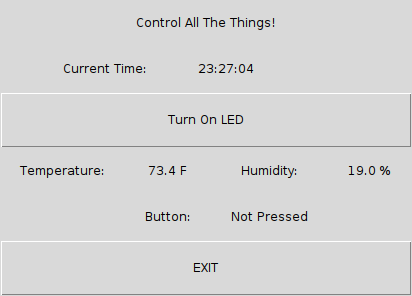
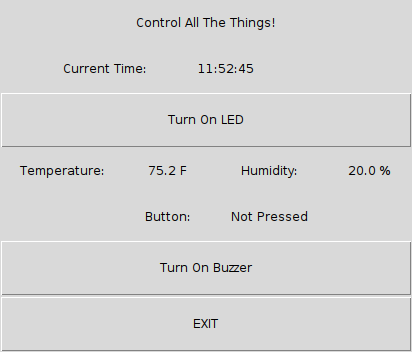
Add Buzzer Control to Full Control GUI
Update the full control GUI to include buzzer control.

diff --git a/gui-master-controller/main.py b/gui-master-controller/main.py
@@ -20,6 +20,12 @@
 #     - Button END1 to RasPi GND
 #     - Button END2 to RasPi GPIO13
 #
+#   Active Buzzer:
+#     - Buzzer POS(+) to RasPi GPIO18
+#     - Buzzer NEG(-) to RasPi GND
+#     - LED POS(+) to RasPi GPIO18
+#     - LED NEG(-) to 1k Ohm Resistor to RasPi GND
+#
 # Prerequisites for Adafruit_DHT library:
 #   sudo apt-get install git-core build-essential python-dev
 #   git clone https://github.com/adafruit/Adafruit_python_DHT.git
@@ -32,6 +38,10 @@ import Tkinter as tk
 import RPi.GPIO as GPIO
 from gpiozero import LED
 
+# set GPIO mode to BCM
+GPIO.setmode(GPIO.BCM)
+GPIO.setwarnings(False)
+
 # GUI Defaults
 WINDOW_WIDTH = 48
 
@@ -39,6 +49,7 @@ WINDOW_WIDTH = 48
 TEMP_PIN = 4
 BUTTON_PIN = 13
 LED_PIN = 26
+BUZZER_PIN = 18
 
 # refresh defaults
 TIME_UPDATE_FREQ = 1000
@@ -49,10 +60,16 @@ class App:
 
     def __init__(self, master):
         # initialize the sensor controls
+        # - LED
         self.led = LED(LED_PIN)
+        # - temp/humidity sensor
         self.temp_sensor = Adafruit_DHT.DHT11
         self.temp_sensor_pin = TEMP_PIN
+        # - button
         GPIO.setup(BUTTON_PIN, GPIO.IN, pull_up_down=GPIO.PUD_UP)
+        # - buzzer
+        GPIO.setup(BUZZER_PIN, GPIO.OUT)
+        GPIO.output(BUZZER_PIN, GPIO.LOW)
 
         # add a label
         main_label = tk.Label(master, text="Control All The Things!", height=3, width=WINDOW_WIDTH)
@@ -85,6 +102,10 @@ class App:
         self.button_label.grid(row=4, column=1, columnspan=1)
         self.button_value = tk.Label(master, text="(Initializing...)", height=3)
         self.button_value.grid(row=4, column=2, columnspan=1)
+
+        # add a button to control the Active Buzzer
+        self.buzzer_control = tk.Button(master, text="Turn On Buzzer", command=self.toggle_buzzer, height=3, width=WINDOW_WIDTH)
+        self.buzzer_control.grid(row=5, columnspan=4)
 
         # add a button to exit
         exit_button = tk.Button(master, text="EXIT", command=self.quitApp, height=3, width=WINDOW_WIDTH)
@@ -130,11 +151,21 @@ class App:
         else:
             self.led.on()
 
+    # control the Active Buzzer on/off capability
+    def toggle_buzzer(self):
+        if (GPIO.input(BUZZER_PIN) == 1):
+            GPIO.output(BUZZER_PIN, GPIO.LOW)
+            self.buzzer_control["text"] = "Turn On Buzzer"
+        else:
+            GPIO.output(BUZZER_PIN, GPIO.HIGH)
+            self.buzzer_control["text"] = "Turn Off Buzzer"
+
+    # handle quitting application
     def quitApp(self):
         root.destroy()
 
 # initialize the TK framework
 root = tk.Tk()
-root.title("LED Control")
+root.title("Full Control")
 app = App(root)
 root.mainloop()

diff --git a/gui-master-controller/README.md b/gui-master-controller/README.md
@@ -14,6 +14,7 @@ README.md documents, respectively):
 - 1-gui-led
 - 2-read-temp-humidity
 - 3-read-button-press
+- 4-gui-buzzer
 
 To run, execute the python script:
 
